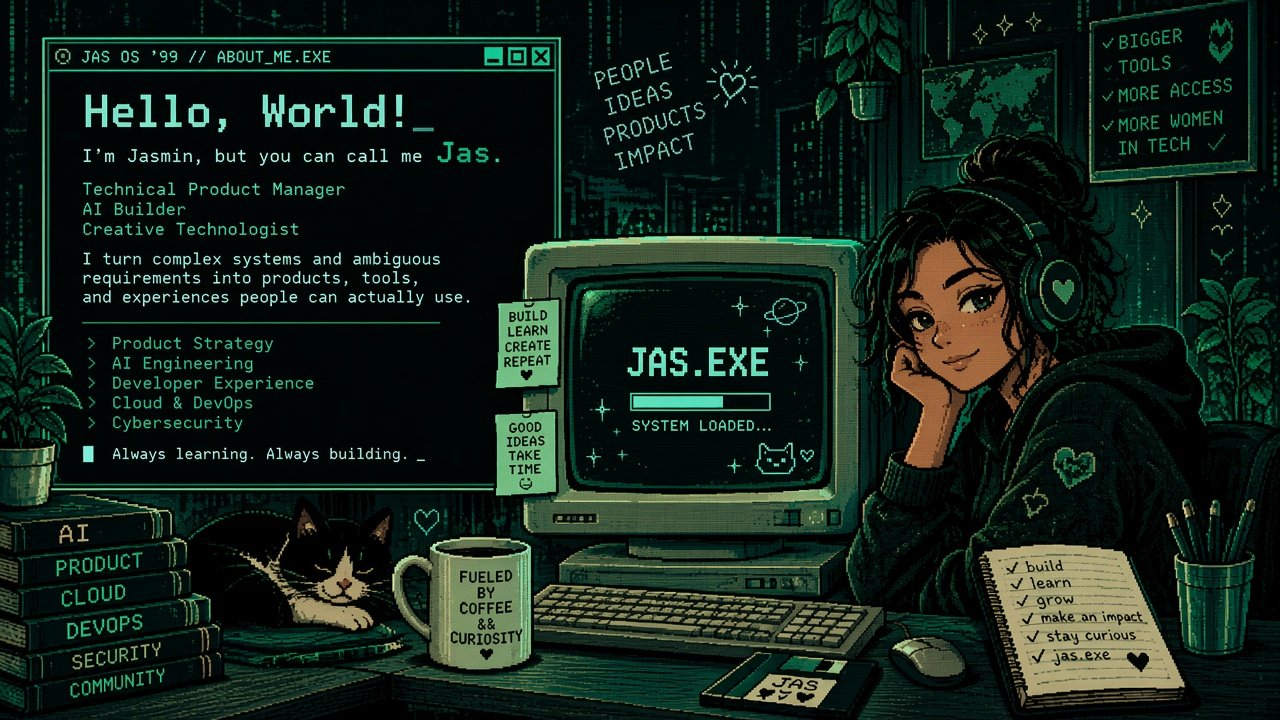
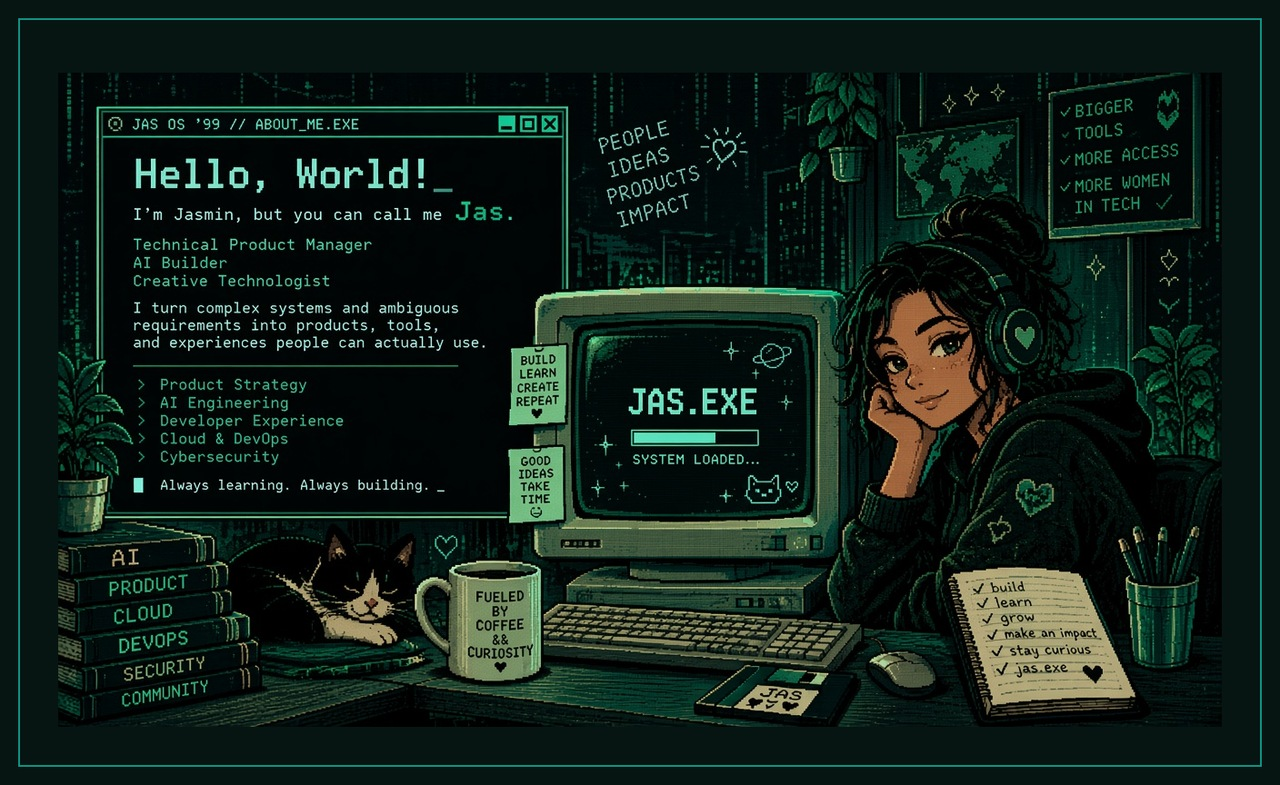
JAS OS '99 V2 — tighter hero and recruiter-friendly README (#2)
* Polish JAS OS '99 profile README for recruiter scan

Tighten the hero to a padded full scene, center identity text, shorten
WHOAMI, highlight HPE impact, feature KrewsAgent and the LLM eval
system, and add the verified portfolio link.

* Adjust image width in README

Reduced the image width in the README from 100% to 85%.

---------

diff --git a/README.md b/README.md
@@ -1,35 +1,22 @@
-<!-- JAS OS '99 // ABOUT_ME.EXE — GitHub profile README -->
+<!-- JAS OS '99 // ABOUT_ME.EXE — GitHub profile README (V2) -->
 
 <div align="center">
 
-  <img src="./assets/jas-os-99-banner.jpg" alt="JAS OS '99 terminal banner reading HELLO, WORLD_ Jasmin Alvarez — Technical Product Manager, AI Builder, Creative Technologist" width="100%" />
+  <img src="./assets/jas-os-99-hero.jpg" alt="Full JAS OS '99 pixel-art workspace with CRT running JAS.EXE and Jas at her desk" width="85%" />
 
   <br/>
 
-  <img src="./assets/jas_github_about_me.jpg" alt="Pixel-art workspace: CRT monitor running JAS.EXE, vintage desk, and Jas at the keyboard in a Matrix-teal 1990s hacker aesthetic" width="100%" />
+  <p><strong><code>JAS OS '99</code></strong> // <strong><code>JAS.EXE</code></strong> // <strong><code>ABOUT_ME.EXE</code></strong></p>
 
-  <br/><br/>
+  <h2>Jasmin</h2>
 
-  <img src="./assets/floppy-jas.png" alt="Pixel floppy disk labeled JAS" width="56" height="56" />
-  &nbsp;&nbsp;
-  <img src="./assets/crt-jas-exe.png" alt="Retro CRT monitor displaying JAS.EXE system loaded" width="96" height="96" />
-
-  <h3>
-    <code>JAS OS '99</code> &nbsp;//&nbsp; <code>ABOUT_ME.EXE</code> &nbsp;//&nbsp; <code>JAS.MODE</code>
-  </h3>
+  <p>Technical Product Manager · AI Builder · Creative Technologist</p>
 
   <p>
-    <strong>Jasmin Alvarez</strong> · you can call me <strong>Jas</strong> 👾<br/>
-    Technical Product Manager &nbsp;|&nbsp; AI Builder &nbsp;|&nbsp; Creative Technologist
+    <a href="https://jasminalvarez.com"><img src="https://img.shields.io/badge/Portfolio-jasminalvarez.com-70E6B1?style=flat-square&labelColor=061512" alt="Portfolio: jasminalvarez.com" /></a>
+    <a href="https://github.com/devchicajas"><img src="https://img.shields.io/badge/GitHub-devchicajas-0E9384?style=flat-square&labelColor=061512&logo=github&logoColor=70E6B1" alt="GitHub: devchicajas" /></a>
+    <img src="https://img.shields.io/badge/Atlanta%2C_GA-0B302B?style=flat-square&labelColor=061512" alt="Location: Atlanta, GA" />
   </p>
-
-  <p>
-    <img src="https://img.shields.io/badge/STATUS-SYSTEM_LOADED-70E6B1?style=for-the-badge&labelColor=061512" alt="Status: SYSTEM LOADED" />
-    <img src="https://img.shields.io/badge/BOOT-JAS.EXE-0E9384?style=for-the-badge&labelColor=061512" alt="Boot: JAS.EXE" />
-    <img src="https://img.shields.io/badge/LOC-Atlanta%2C_GA-0B302B?style=for-the-badge&labelColor=061512" alt="Location: Atlanta, GA" />
-  </p>
-
-  <img src="./assets/circuit-divider.png" alt="" width="100%" />
 
 </div>
 
@@ -37,170 +24,89 @@
 
 ## `C:\USERS\JAS\WHOAMI`
 
-```text
-JAS OS '99  >  whoami
-────────────────────────────────────────
-user ...... Jasmin Alvarez (Jas)
-role ...... Technical Product Manager
-also ...... AI Builder · Creative Technologist
-mode ...... JAS.MODE — always learning, always building
-────────────────────────────────────────
-```
+Hi, I'm **Jasmin**, but you can call me **Jas**.
 
-Hi! I'm **Jasmin Alvarez**, but you can call me **Jas**. 👾
-
-I'm a technical product manager, AI builder, and creative technologist who enjoys turning complicated ideas into products people can actually use.
+I'm a technical product manager and AI builder with a background in developer tools, cloud, and engineering.
 
 Previously, I worked as a **Senior Product Manager** and **Technical Marketing Engineer** at **Hewlett Packard Enterprise**.
 
-I'm also a **Resilient Coders** alumna and **AI Product Engineer**.
+I'm a **Resilient Coders** alumna and **AI Product Engineer**.
 
-**My interests include:**
-
-- AI engineering and AI products
-- Developer tools and developer experience
-- Technical product management
-- Cloud and DevOps
-- Cybersecurity
-- Building creative technical projects
-
-**My philosophy:**
-
-> *"I turn messy systems and ambiguous requirements into tools and workflows people can actually use."*
-
-<img src="./assets/circuit-divider.png" alt="" width="100%" />
+> I turn complex systems and ambiguous requirements into products and workflows people can actually use.
 
 ---
 
 ## `C:\USERS\JAS\EXPERIENCE.LOG`
 
-```text
-JAS OS '99  >  type EXPERIENCE.LOG
-```
-
 ### Hewlett Packard Enterprise
 **Senior Product Manager & Technical Marketing Engineer**
 
-Shipped developer-facing tools and workflows for field and API users — with measurable speedups:
+Built developer-facing tools and workflows for API and field users — with measurable impact:
 
-| Metric | Before | After | Impact |
-| :---: | :---: | :---: | :--- |
-| API workflow | **45 days** | **45 seconds** | Order-of-magnitude faster path to value |
-| NinjaSTARS workflow | **60 min** | **12 min** | 5× faster operator loop |
-| Field tooling | — | **2,000+** users | Tools supporting a large field organization |
-
-<details>
-<summary><code>view mission notes_</code></summary>
-
-<br/>
-
-- Bridged product, engineering, and technical marketing to make complex systems usable
-- Focused on developer experience, workflow automation, and clear product narratives
-- Built for real operators — not slideware
-
-</details>
-
-<img src="./assets/circuit-divider.png" alt="" width="100%" />
+| Impact | Before → After |
+| :--- | :---: |
+| **API workflow** | **45 days → 45 seconds** |
+| **NinjaSTARS workflow** | **60 min → 12 min** |
+| **Field tooling reach** | **2,000+ users** |
 
 ---
 
 ## `C:\USERS\JAS\PROJECTS`
 
-```text
-JAS OS '99  >  dir PROJECTS /w
-```
+### <img src="./assets/folder-open.png" alt="" width="20" height="20" /> [KrewsAgent](https://github.com/devchicajas/KrewsAgent)
+Approval-gated AI ops crews (Ops, Growth, Support, Finance) that draft actions from Gmail and GitHub — execute only after you say yes.
 
-### <img src="./assets/folder-open.png" alt="" width="22" height="22" /> [KrewsAgent](https://github.com/devchicajas/KrewsAgent)
+`TypeScript` · `Next.js` · `AI agents` · `Supabase`  
+[Repo](https://github.com/devchicajas/KrewsAgent) · [Live demo](https://krews-agent.vercel.app)
 
-AI ops crew for founders who need help but can't hire yet. Four crews (**Ops**, **Growth**, **Support**, **Finance**) propose actions from Gmail / GitHub — **you approve before anything executes**.
+### <img src="./assets/folder.png" alt="" width="20" height="20" /> [LLM Model Evaluation System](https://github.com/devchicajas/LLM-model-evaluation-system-for-Claude-Sonnet-4-migration)
+Eval harness for **Claude Sonnet 4 migration**: same prompts across candidate models, LLM judge + rule checks, PostgreSQL results, and a ranked recommendation for product and engineering.
 
-`Next.js` · `TypeScript` · `TARS` · `Supabase` · `Vercel`
-
-[![Open KrewsAgent repository](https://img.shields.io/badge/open_repo-061512?style=flat-square&logo=github&logoColor=70E6B1)](https://github.com/devchicajas/KrewsAgent)
-[![Live demo](https://img.shields.io/badge/live_demo-0E9384?style=flat-square&logo=vercel&logoColor=E7FFF0)](https://krews-agent.vercel.app)
-
-### <img src="./assets/folder.png" alt="" width="22" height="22" /> [LLM Model Evaluation System](https://github.com/devchicajas/LLM-model-evaluation-system-for-Claude-Sonnet-4-migration)
-
-Repeatable eval harness for **Claude Sonnet 4 migration**: runs the same realistic prompts across candidate models, scores them with an LLM judge + rule checks, stores results in PostgreSQL, and produces a ranked recommendation for engineers and product stakeholders.
-
-`TypeScript` · `LLM-as-judge` · `PostgreSQL` · `Eval dashboard`
-
-[![Open LLM evaluation repository](https://img.shields.io/badge/open_repo-061512?style=flat-square&logo=github&logoColor=70E6B1)](https://github.com/devchicajas/LLM-model-evaluation-system-for-Claude-Sonnet-4-migration)
-
-<img src="./assets/circuit-divider.png" alt="" width="100%" />
+`TypeScript` · `LLM-as-judge` · `PostgreSQL`  
+[Repo](https://github.com/devchicajas/LLM-model-evaluation-system-for-Claude-Sonnet-4-migration)
 
 ---
 
 ## `C:\USERS\JAS\TECH_STACK`
 
-```text
-JAS OS '99  >  load TECH_STACK.dll
-```
+**Product & Developer Experience**  
+![Product Strategy](https://img.shields.io/badge/Product_Strategy-0B302B?style=flat-square&labelColor=061512)
+![Developer Experience](https://img.shields.io/badge/Developer_Experience-0E9384?style=flat-square&labelColor=061512)
+![Technical PM](https://img.shields.io/badge/Technical_PM-0B302B?style=flat-square&labelColor=061512)
 
-### Product & Developer Experience
-![Product Strategy](https://img.shields.io/badge/Product_Strategy-061512?style=flat-square&logoColor=70E6B1&color=0B302B)
-![Developer Experience](https://img.shields.io/badge/Developer_Experience-061512?style=flat-square&color=0E9384)
-![Technical Product Management](https://img.shields.io/badge/Technical_PM-061512?style=flat-square&color=0B302B)
-![Technical Writing](https://img.shields.io/badge/Technical_Writing-061512?style=flat-square&color=0E9384)
+**AI & Engineering**  
+![Python](https://img.shields.io/badge/Python-0B302B?style=flat-square&labelColor=061512&logo=python&logoColor=70E6B1)
+![TypeScript](https://img.shields.io/badge/TypeScript-0E9384?style=flat-square&labelColor=061512&logo=typescript&logoColor=70E6B1)
+![Next.js](https://img.shields.io/badge/Next.js-0B302B?style=flat-square&labelColor=061512&logo=nextdotjs&logoColor=70E6B1)
+![AI Products](https://img.shields.io/badge/AI_Products-0E9384?style=flat-square&labelColor=061512)
 
-### AI & Engineering
-![Python](https://img.shields.io/badge/Python-061512?style=flat-square&logo=python&logoColor=70E6B1)
-![TypeScript](https://img.shields.io/badge/TypeScript-061512?style=flat-square&logo=typescript&logoColor=70E6B1)
-![JavaScript](https://img.shields.io/badge/JavaScript-061512?style=flat-square&logo=javascript&logoColor=70E6B1)
-![Next.js](https://img.shields.io/badge/Next.js-061512?style=flat-square&logo=nextdotjs&logoColor=70E6B1)
-![AI Engineering](https://img.shields.io/badge/AI_Engineering-061512?style=flat-square&color=0E9384)
-![Prompt Systems](https://img.shields.io/badge/Prompt_Systems-061512?style=flat-square&color=0B302B)
+**Cloud & DevOps**  
+![AWS](https://img.shields.io/badge/AWS-0B302B?style=flat-square&labelColor=061512&logo=amazonaws&logoColor=70E6B1)
+![Azure](https://img.shields.io/badge/Azure-0E9384?style=flat-square&labelColor=061512&logo=microsoftazure&logoColor=70E6B1)
+![Vercel](https://img.shields.io/badge/Vercel-0B302B?style=flat-square&labelColor=061512&logo=vercel&logoColor=70E6B1)
 
-### Cloud & DevOps
-![AWS](https://img.shields.io/badge/AWS-061512?style=flat-square&logo=amazonaws&logoColor=70E6B1)
-![Azure](https://img.shields.io/badge/Azure-061512?style=flat-square&logo=microsoftazure&logoColor=70E6B1)
-![Vercel](https://img.shields.io/badge/Vercel-061512?style=flat-square&logo=vercel&logoColor=70E6B1)
-![Git](https://img.shields.io/badge/Git-061512?style=flat-square&logo=git&logoColor=70E6B1)
-![GitHub](https://img.shields.io/badge/GitHub-061512?style=flat-square&logo=github&logoColor=70E6B1)
-![CI/CD](https://img.shields.io/badge/CI%2FCD-061512?style=flat-square&color=0E9384)
-
-### Cybersecurity
-![Cybersecurity](https://img.shields.io/badge/Cybersecurity-061512?style=flat-square&color=0B302B)
-![Secure Workflows](https://img.shields.io/badge/Secure_Workflows-061512?style=flat-square&color=0E9384)
-![Trust_%26_Safety](https://img.shields.io/badge/Trust_%26_Safety-061512?style=flat-square&color=0B302B)
-
-<img src="./assets/circuit-divider.png" alt="" width="100%" />
+**Cybersecurity**  
+![Cybersecurity](https://img.shields.io/badge/Cybersecurity-0B302B?style=flat-square&labelColor=061512)
+![Secure Workflows](https://img.shields.io/badge/Secure_Workflows-0E9384?style=flat-square&labelColor=061512)
 
 ---
 
 ## `C:\USERS\JAS\CONNECT`
 
-```text
-JAS OS '99  >  ping NETWORK
-```
-
 <div align="center">
 
+  <p>Let's build something people can actually use.</p>
+
   <p>
-    <img src="./assets/star.png" alt="" width="14" height="14" />
-    Let's build something people can actually use.
-    <img src="./assets/star.png" alt="" width="14" height="14" />
+    <a href="https://jasminalvarez.com"><img src="https://img.shields.io/badge/Portfolio-jasminalvarez.com-70E6B1?style=for-the-badge&labelColor=061512" alt="Visit portfolio at jasminalvarez.com" /></a>
+    <a href="https://github.com/devchicajas"><img src="https://img.shields.io/badge/GitHub-devchicajas-0E9384?style=for-the-badge&labelColor=061512&logo=github&logoColor=E7FFF0" alt="GitHub profile" /></a>
   </p>
 
   <p>
-    <a href="https://github.com/devchicajas">
-      <img src="https://img.shields.io/badge/GitHub-devchicajas-061512?style=for-the-badge&logo=github&logoColor=70E6B1" alt="GitHub profile: devchicajas" />
-    </a>
-    <a href="https://github.com/devchicajas/KrewsAgent">
-      <img src="https://img.shields.io/badge/Featured-KrewsAgent-0E9384?style=for-the-badge&logo=vercel&logoColor=E7FFF0" alt="Featured project KrewsAgent" />
-    </a>
+    <img src="./assets/crt-jas-exe.png" alt="Retro CRT monitor displaying JAS.EXE system loaded" width="72" height="72" />
   </p>
 
   <p><code>Always learning. Always building. _</code></p>
-
-  <br/>
-
-  <img src="./assets/crt-jas-exe.png" alt="JAS.EXE CRT boot screen" width="120" height="120" />
-
-  <p>
-    <sub>
-      <code>JAS OS '99</code> · boot complete · running <code>JAS.MODE</code> 💚
-    </sub>
-  </p>
+  <p><sub><code>JAS OS '99</code> · running <code>JAS.MODE</code> 💚</sub></p>
 
 </div>
